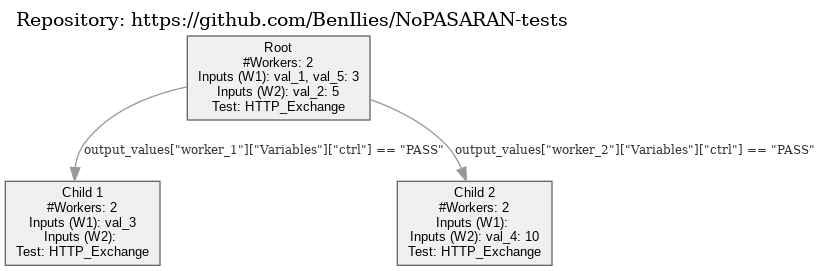
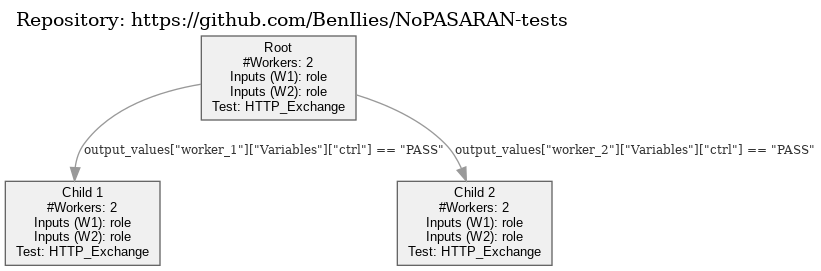
reforge the tests trees 2

diff --git a/tests_tree.py b/tests_tree.py
@@ -280,21 +280,21 @@ class TestsTreeTest:
         root = TestsTreeNode(
             'Root', 
             num_workers=2, 
-            inputs=[{'val_1': (None, False), 'val_5': (3, True)}, {'val_2': (5, True)}],
+            inputs=[{'role': (None, False)}, {'role': (None, False)}],
             test='HTTP_Exchange'
         )
 
         child1 = TestsTreeNode(
             'Child 1', 
             num_workers=2, 
-            inputs=[{'val_3': (None, False)}, {}],
+            inputs=[{'role': (None, False)}, {'role': (None, False)}],
             test='HTTP_Exchange'
         )
 
         child2 = TestsTreeNode(
             'Child 2', 
             num_workers=2, 
-            inputs=[{}, {'val_4': (10, True)}],
+            inputs=[{'role': (None, False)}, {'role': (None, False)}],
             test='HTTP_Exchange'
         )
 
@@ -317,9 +317,9 @@ class TestsTreeTest:
 
         # Set inputs for all nodes
         node_inputs = {
-            'Root': {'Worker_1': {'val_1': 5}},
-            'Child 1': {'Worker_1': {'val_3': b"val_3"}},
-            'Child 2': {'Worker_2': {'val_4': 10}}
+            'Root': {'Worker_1': {'role': "client"}},
+            'Child 1': {'Worker_1': {'role': "client"}},
+            'Child 2': {'Worker_2': {'role': "client"}}
         }
 
         try:
